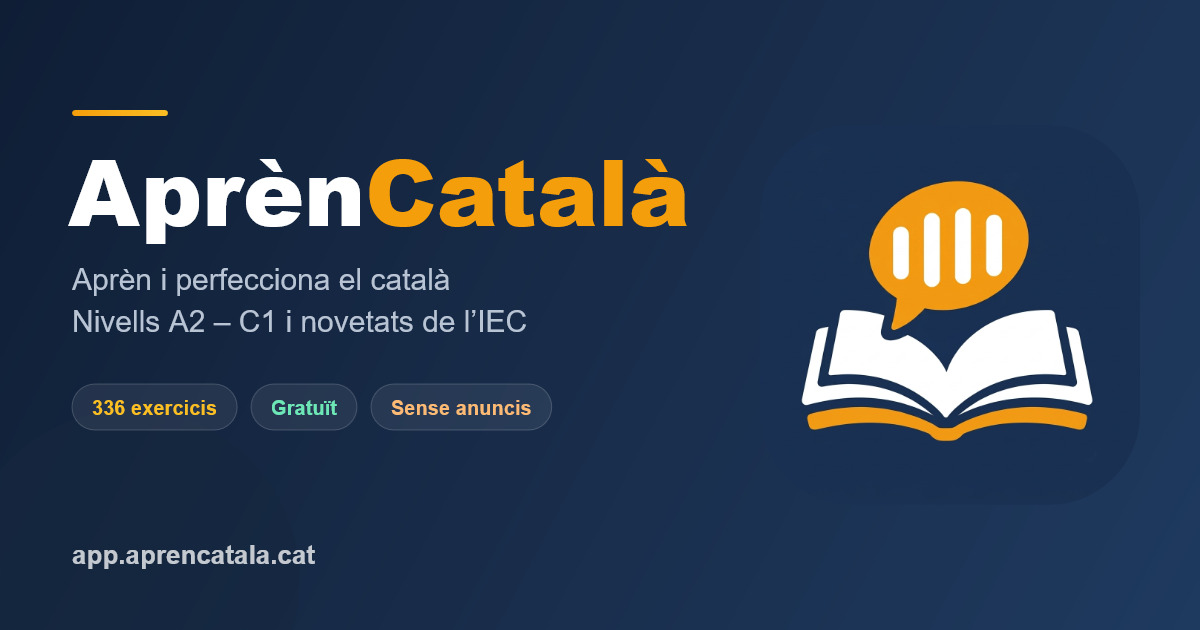
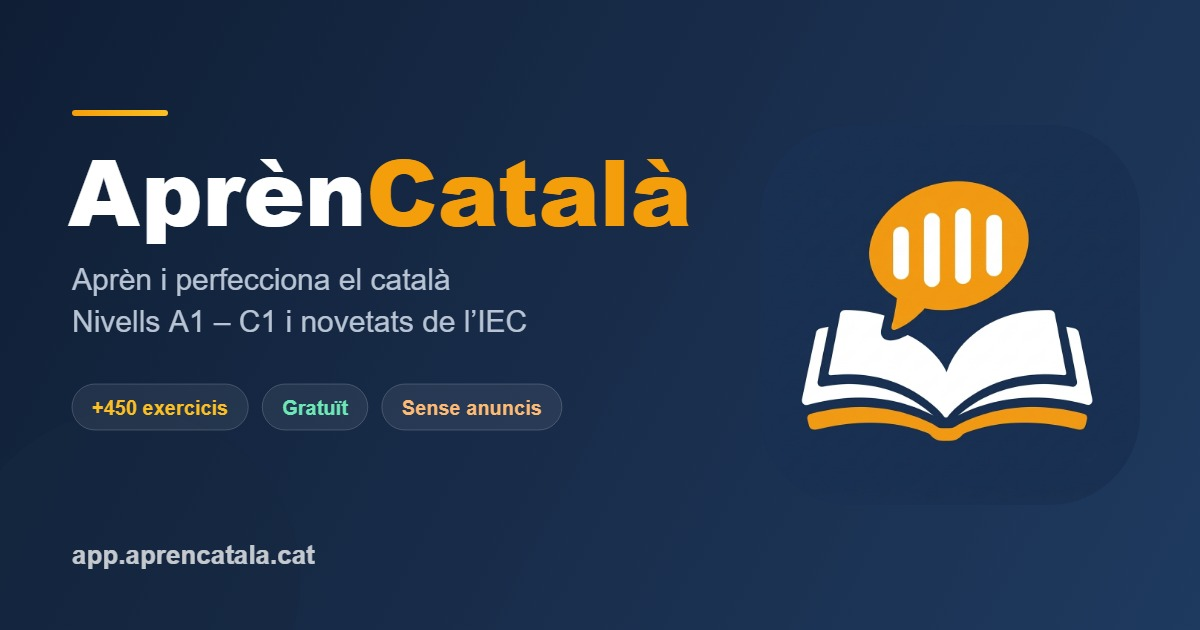
Imatge de compartir: nivells A1 – C1 i +450 exercicis
Regenerada amb og-image.html (1200×630). No és a ASSETS_TO_CACHE: no demana bump.

diff --git a/og-image.html b/og-image.html
@@ -70,11 +70,11 @@ async function draw() {
   g.font = '400 30px "DM Sans", sans-serif';
   g.fillStyle = '#b8c4d4';
   g.fillText('Aprèn i perfecciona el català', 72, 290);
-  g.fillText('Nivells A2 – C1 i novetats de l’IEC', 72, 332);
+  g.fillText('Nivells A1 – C1 i novetats de l’IEC', 72, 332);
 
   // xips
   let x = 72;
-  x += pill(x, 384, '336 exercicis', '#fbbf24') + 14;
+  x += pill(x, 384, '+450 exercicis', '#fbbf24') + 14;
   x += pill(x, 384, 'Gratuït', '#6ee7b7') + 14;
   pill(x, 384, 'Sense anuncis', '#fdba74');
 
